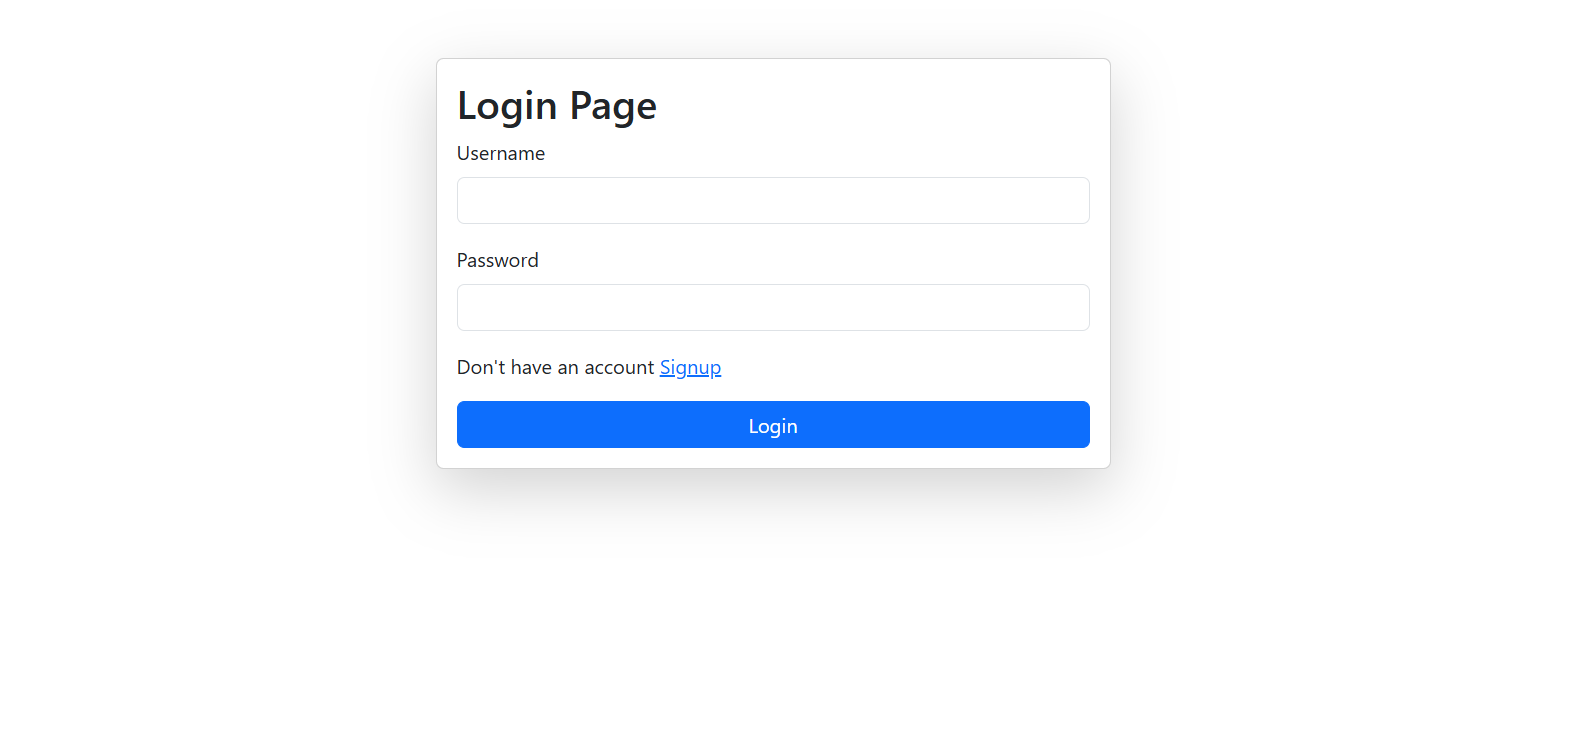
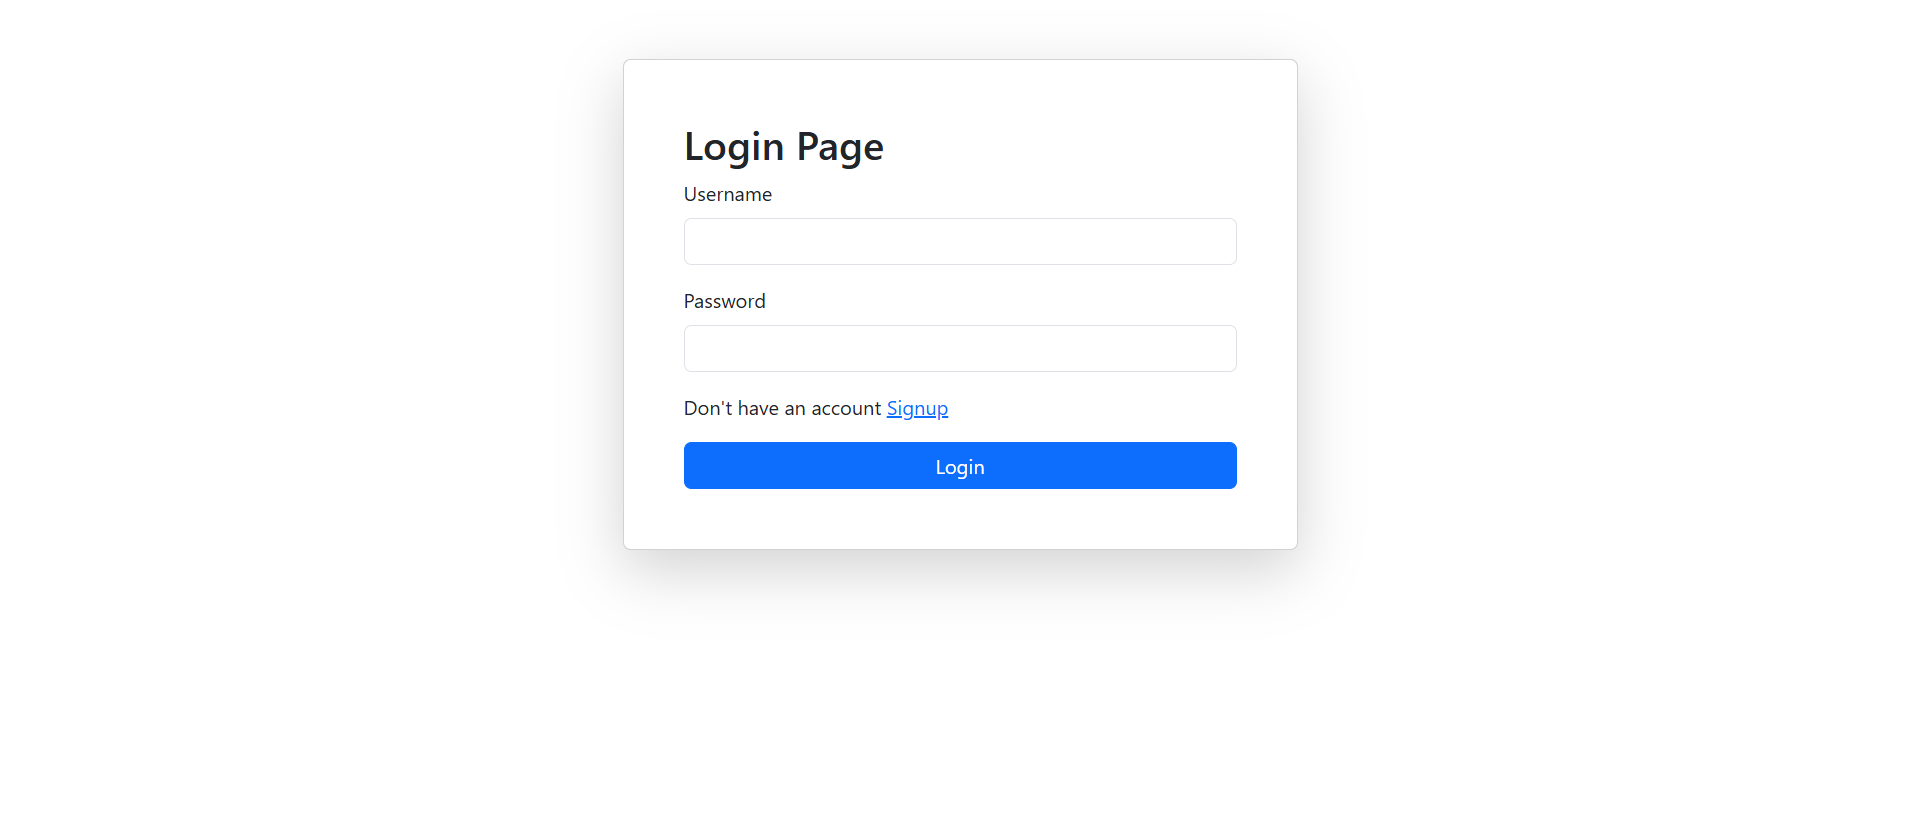
some changes in signup, login and views file

diff --git a/Login_app/templates/signup.html b/Login_app/templates/signup.html
@@ -12,44 +12,36 @@
     <div class="container mt-5">
 
         
-        <form class="col-5 mx-auto shadow-lg card p-3 shadow-lg" method="post">
+        <form class="col-5 mx-auto shadow-lg card p-5 shadow-lg" method="post">
 
             {% if messages %}
-            {{message.tags}}
-            <div class="alert alert-primary" role="alert">
+                {{message.tags}}
+            
                 {% for message in messages %}
   
-                {{ message }}
+                <p class="text-danger">{{ message }} !</p>
                 {% endfor %}
-              </div>
             
             {% endif %}
             {% csrf_token %}
             <h2>Sign up</h2>
-            <!-- <div class="mb-3">
-                <label for="first_name" class="form-label">first_name</label>
-                <input type="text" name="first_name" class="form-control" id="exampleInputEmail1" aria-describedby="emailHelp">
-            </div>
-            <div class="mb-3">
-                <label for="last_name" class="form-label">Last_name</label>
-                <input type="text" name="last_name" class="form-control" id="exampleInputEmail1" aria-describedby="emailHelp">
-            </div> -->
+            
             <div class="mb-3">
                 <label for="username" class="form-label">Username</label>
-                <input type="text" name="username"  class="form-control" id="exampleInputEmail1" aria-describedby="emailHelp">
+                <input type="text" name="username"  class="form-control" id="exampleInputEmail1" aria-describedby="emailHelp" required>
+            </div>
+            <div class="mb-3">
+                <label for="email" class="form-label">Email</label>
+                <input type="email" name="email"  class="form-control" id="exampleInputEmail1" aria-describedby="emailHelp" required>
             </div>
             <div class="mb-3">
                 <label for="password" class="form-label">Password</label>
-                <input type="password" name="password" class="form-control" id="exampleInputPassword1">
+                <input type="password" name="password" class="form-control" id="exampleInputPassword1" required>
             </div>
             <p>Already have an account <a href="/login/">Login</a></p>
         <button type="submit" class="btn btn-primary">Signup</button>
     </form>
 
-    {% comment %} <h3>{{users.0.username}}</h3> {% endcomment %}
-    {% for user in users %}
-        <h4>{{forloop.counter}} - {{user.username}}</h4>
-    {% endfor %}
 </div>
 
 

diff --git a/Login_app/templates/login.html b/Login_app/templates/login.html
@@ -11,15 +11,15 @@
 
     <div class="container mt-5">
         
-        <form class="col-5 mx-auto shadow-lg card p-3 shadow-lg" method="post">
+        <form class="col-5 mx-auto shadow-lg card p-5 shadow-lg" method="post">
             {% if messages %}
             {{ message.tags }}
-            <div class="alert alert-primary" role="alert">
+            
               {% for message in messages %}
 
-              {{ message }}
+              <p class="text-danger">{{ message }} !</p>
               {% endfor %}
-            </div>
+            
 
             {% endif %}
 
@@ -29,11 +29,11 @@
         
             <div class="mb-3">
                 <label for="username" class="form-label">Username</label>
-                <input type="text" name="username"  class="form-control" id="exampleInputEmail1" aria-describedby="emailHelp">
+                <input type="text" name="username"  class="form-control" id="exampleInputEmail1" aria-describedby="emailHelp" required>
             </div>
             <div class="mb-3">
                 <label for="password" class="form-label">Password</label>
-                <input type="password" name="password" class="form-control" id="exampleInputPassword1">
+                <input type="password" name="password" class="form-control" id="exampleInputPassword1" required>
         </div>
         <p>Don't have an account <a href="/signup/">Signup</a></p>
         <button type="submit" class="btn btn-primary">Login</button>

diff --git a/Login_app/views.py b/Login_app/views.py
@@ -14,6 +14,7 @@ def sign_up(request):
     
     if request.method == "POST":
         username = request.POST.get("username")
+        email = request.POST.get("email")
         password = request.POST.get("password")
 
         if User.objects.filter(username = username).exists():
@@ -21,7 +22,8 @@ def sign_up(request):
             return redirect("/signup/")
 
         user = User.objects.create(
-            username = username
+            username = username,
+            email = email
             
         )
 
